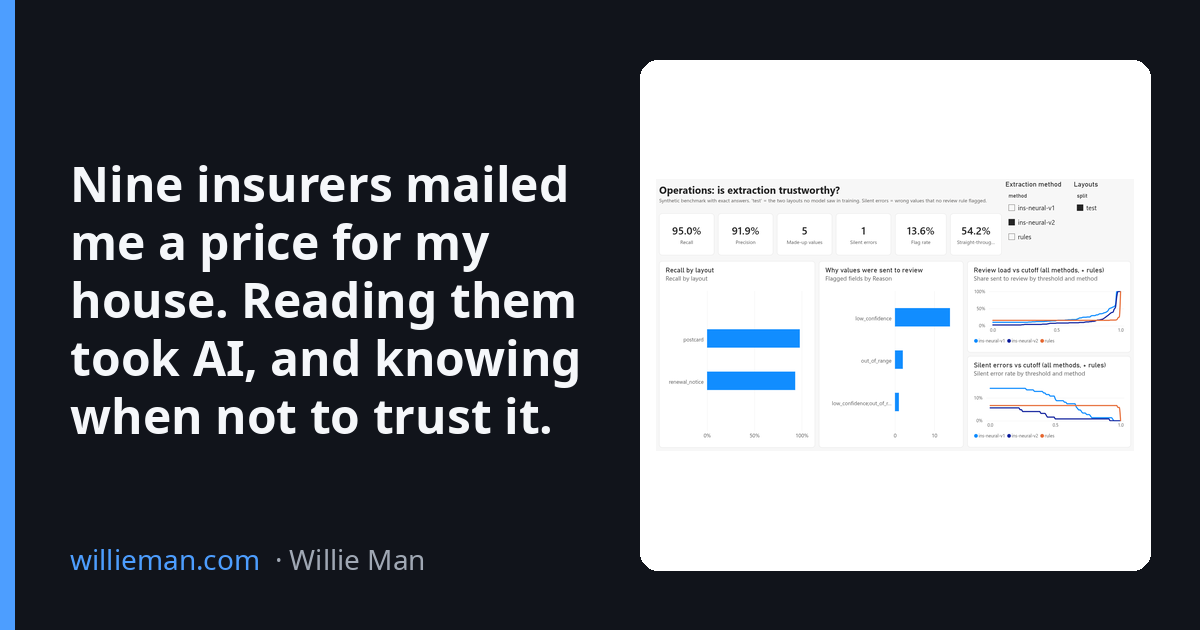
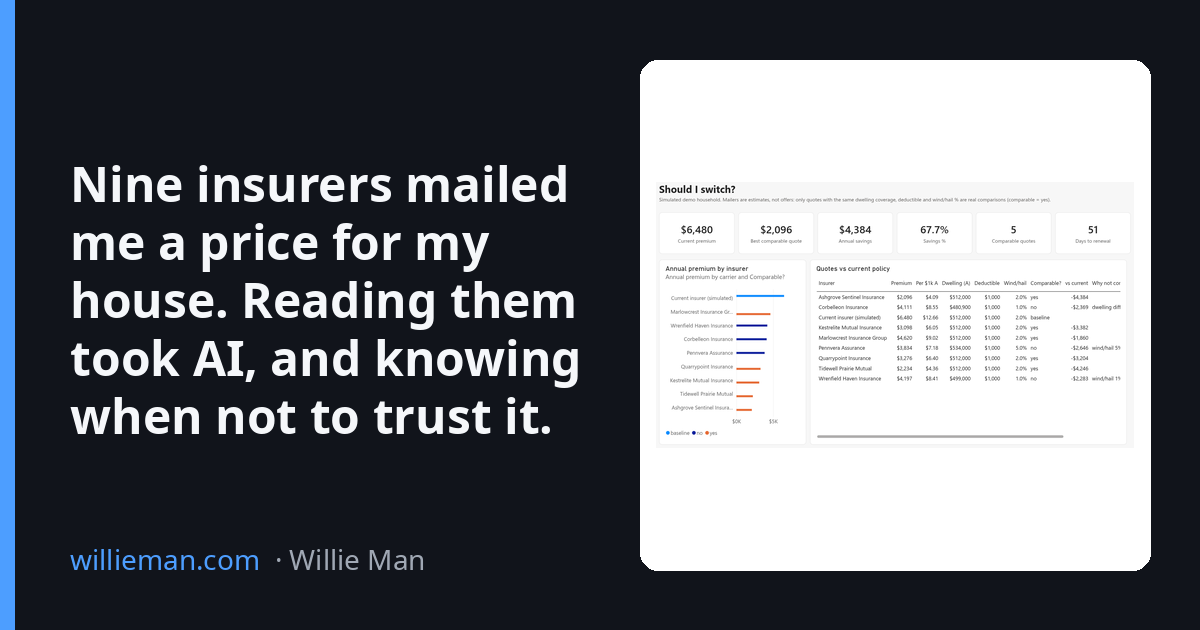
Insurance post: lead with Should I switch, real letter, diagram, glossary; escape $ in 3 posts

diff --git a/_posts/2026-11-11-nine-insurers-mailed-me-a-price.md b/_posts/2026-11-11-nine-insurers-mailed-me-a-price.md
@@ -7,16 +7,35 @@ tags: data-science
 categories: project
 giscus_comments: true
 related_posts: true
-thumbnail: assets/img/insurance-docai/2-operations.png
+thumbnail: assets/img/insurance-docai/1-should-i-switch.png
 og_image: https://willieman.com/assets/img/og/nine-insurers-mailed-me-a-price.png
+mermaid:
+  enabled: true
+  zoomable: true
 ---
 
-*My renewal said about $7,200 a year. Nine other insurers had mailed me "personalized quotes" between roughly
-$1,000 and $3,000. Picking the cheap one looked easy. It wasn't.*
+*My renewal said about \\$7,200 a year. Nine other insurers had mailed me "personalized quotes" between roughly
+\\$1,000 and \\$3,000. Picking the cheap one looked easy. It wasn't.*
 
 No two letters were alike. One says "Dwelling Protection", another "Dwelling Coverage". One prints a wind/hail
-deductible, eight don't. One quotes $440k of coverage, another $529k. Two had my square footage wrong. To compare
+deductible, eight don't. One quotes \\$440k of coverage, another \\$529k. Two had my square footage wrong. To compare
 them you have to read every letter, pull out the same dozen numbers, and notice which ones can't be compared at all.
+
+## The question: should I switch?
+
+This is the page I wanted at the end: every quote lined up against the current policy, and a plain answer to
+whether each one is a real comparison.
+
+{% include figure.liquid loading="eager" path="assets/img/insurance-docai/1-should-i-switch.png" class="img-fluid rounded z-depth-1" %}
+<div class="caption">The "Should I switch?" page of the Power BI report, shown with a simulated household (not my numbers).</div>
+
+A quote only counts as **comparable** when it has the same dwelling coverage, the same deductible and the same
+wind/hail percentage as the current policy. Anything else gets a reason in the last column ("dwelling differs",
+"wind/hail 5%"). Price per \\$1,000 of dwelling coverage puts different-sized quotes on one scale.
+
+For my real letters the answer was blunt: **none of the nine mailers was comparable**, because none of them stated a
+deductible. So the action wasn't "pick the cheapest letter". It was: request binding quotes on my exact coverage,
+deductible and wind/hail terms, and decide before the renewal date. The gap was large enough to be worth the calls.
 
 That's a small version of a common problem. Insurers, banks and government offices receive piles of documents
 in inconsistent formats, and they need structured data they can trust, with a person checking whatever the
@@ -44,6 +63,9 @@ fictional insurers in 6 different layouts, about half degraded to look like chea
 know every correct value exactly. Two layouts (a postcard and a renewal notice) were held back completely: no
 model or rule saw them before the test. That's the question that matters for any document system: how does it
 do on the format nobody planned for?
+
+{% include figure.liquid loading="eager" path="assets/img/insurance-docai/synthetic-letters.png" class="img-fluid rounded z-depth-1" %}
+<div class="caption">Two of the 96 synthetic letters: a clean declarations page from one fictional insurer, and a "scanned" renewal notice (tilted, blurred, grayscale) from another, in a layout held back for testing. Names and addresses are fake; every number is planted, so the right answer is known.</div>
 
 The number I care about most is the **silent error**: a value that's wrong *and* nobody was asked to check it.
 Those are the ones that end up in a report.
@@ -92,6 +114,33 @@ On my own letters, the model trained only on synthetic data read **about 97% of 
 silent errors**, at the cost of flagging more fields for review. (These numbers are provisional while I finish
 double-checking the hand labels.)
 
+Here's one of them, end to end: a quote mailer that arrived as a phone-quality scan, with my details blacked out.
+
+{% include figure.liquid path="assets/img/insurance-docai/real-mailer-redacted.png" class="img-fluid rounded z-depth-1" %}
+<div class="caption">A real quote mailer, redacted (names, addresses and the agent's contact details removed).</div>
+
+| On the letter | What the model read | Confidence | What happened |
+| :--- | :--- | :--- | :--- |
+| Dwelling \\$445,500 | \\$445,500 | 0.94 | accepted automatically |
+| Other structure \\$44,600 | \\$44,600 | 0.90 | accepted automatically |
+| Personal property \\$178,400 | \\$178,400 | 0.96 | accepted automatically |
+| Liability \\$300,000 | \\$300,000 | 0.94 | accepted automatically |
+| Guest medical \\$1,000 | \\$1,000 | 0.92 | accepted automatically |
+| Annual premium \\$2,187.45 | \\$2,187.45 | 0.94 | accepted automatically |
+| Additional living expense "Included" | "Included" (no amount) | 0.40 | **sent to a person** |
+
+Six of seven values were read exactly and went straight through. The seventh is the interesting one. The letter
+prints "Included" instead of an amount, and the two versions of the model handled it differently:
+
+- The **first model** filled in **\\$300,000**, the liability number from the line above, at a fairly confident
+  0.83. Confidence alone would have let that through. What caught it was a simple rule: living-expense coverage
+  is normally 5–50% of the dwelling amount, and \\$300,000 is 67%.
+- The **retrained model** read the word "Included", reported low confidence, and sent it to a person, who marks
+  it "not on the document".
+
+Either way, the wrong number never reached the comparison. And note that the mailer doesn't state a deductible
+at all, which is why no mailer could be compared like for like with my actual policy.
+
 ### A smarter router isn't automatically better
 
 On Databricks I trained a model to predict which extracted values are wrong. It ranked errors far better than the
@@ -99,6 +148,12 @@ raw confidence score (AUC 0.91 vs 0.53, where 0.5 is a coin flip), yet at the sa
 a calibrated threshold plus simple rules. With eight insurers, the simple policy wins. Negative results are results.
 
 ## The person in the loop
+
+The review step is a deliberately simple app, built in Microsoft Power Apps (part of Microsoft's Power
+Platform) and hosted there, reading and writing the review queue in Azure SQL. No web server to run: the
+reviewer opens it in a browser, sees one flagged value at a time, and clicks Accept, Save Correction or Not on
+document. The app itself is kept as code and deployed from the command line, so it's versioned like everything
+else.
 
 {% include figure.liquid loading="eager" path="assets/img/insurance-docai/review-app.png" class="img-fluid rounded z-depth-1" %}
 <div class="caption">The review app: the page, what the model read, its confidence, why it was flagged, and a hint. Synthetic letter from a fictional insurer.</div>
@@ -111,11 +166,7 @@ retrain.
 
 ## The dashboard
 
-One Power BI report for three audiences (the homeowner, operations, finance), built entirely as code. The
-household page uses a simulated household.
-
-{% include figure.liquid path="assets/img/insurance-docai/1-should-i-switch.png" class="img-fluid rounded z-depth-1" %}
-<div class="caption">Should I switch? Each quote against the current policy, and whether it's actually comparable (simulated household).</div>
+The same Power BI report has pages for operations and finance next to the homeowner's page above, all built as code.
 
 {% include figure.liquid path="assets/img/insurance-docai/2-operations.png" class="img-fluid rounded z-depth-1" %}
 <div class="caption">Operations: accuracy, silent errors, and how much review each cutoff costs.</div>
@@ -139,5 +190,50 @@ Mailers are estimates, not offers. Before comparing prices, match the dwelling c
 wind/hail percentage**, and ask how the roof is paid on a claim. Get binding quotes on the same terms, switch on the
 renewal date, and repeat every year.
 
+## How it fits together
+
+What was actually built (one Azure resource group, deployed from Bicep templates, signed in with Microsoft
+Entra ID, no passwords or keys):
+
+```mermaid
+flowchart TD
+  A["Real letters (scans, PDFs)<br/>+ synthetic letters (AI Foundry wording)"] --> B[("Azure Blob Storage<br/>stored by content hash")]
+  B --> C["Azure AI Document Intelligence<br/>layout + custom model: values + confidence"]
+  C --> D["Python: map to one schema,<br/>range and ratio checks"]
+  D --> R["Azure AI Language<br/>remove personal info"]
+  D -- "confident and valid" --> S[("Azure SQL<br/>clean values + full history")]
+  D -- "unsure or suspicious" --> Q["Power Apps review app<br/>accept · correct · not on document"]
+  Q --> S
+  S --> P["Power BI dashboard<br/>homeowner · operations · finance"]
+  D --> X["Databricks lakehouse<br/>bronze → silver → gold, MLflow"]
+  C -. logs .-> L["Log Analytics + App Insights"]
+  Q -. usage events .-> L
+```
+
+For a production version (private networking, no public endpoints, separate dev/test/prod), the repo has a
+reference architecture: [docs/ARCHITECTURE.md](https://github.com/godot107/insurance-docai/blob/main/docs/ARCHITECTURE.md).
+
 *Stack: Azure AI Document Intelligence (layout + custom neural), Azure AI Language, Power Apps, Azure SQL,
 Power BI, Databricks (Unity Catalog, MLflow), Azure AI Foundry, Bicep, Python, GitHub Actions.*
+
+## Glossary
+
+- **Layout**: how a letter is arranged on the page (a table, a postcard, a two-column notice). The same facts
+  can sit in very different places.
+- **Custom (neural) model**: a Document Intelligence model trained on my own labeled examples, instead of the
+  general-purpose one that only reads text and tables.
+- **Confidence score**: the model's own estimate, from 0 to 1, of how sure it is about a value.
+- **Calibrated**: a confidence score that means what it says: of values scored 0.9, about 90% are right.
+- **Silent error**: a wrong value that no check flagged, so no person ever looked at it.
+- **Precision**: of the values the model returned, the share that were right. Low precision means it makes
+  things up.
+- **Cutoff (threshold)**: the confidence below which a value goes to a person.
+- **Augmentation**: making extra, deliberately varied training examples (harder layouts, worse scans) so the
+  model learns the general pattern rather than one look.
+- **AUC**: how well a score ranks wrong values above right ones; 1.0 is perfect, 0.5 is a coin flip.
+- **Drift**: when the documents (or the model's behavior on them) change over time, so accuracy measured
+  earlier no longer holds. Here, a jump in "not on the document" decisions is the early warning.
+- **PII**: personally identifiable information: names, addresses, phone numbers, policy and loan numbers.
+- **Bronze / silver / gold**: raw data as received → cleaned and checked → ready for reports.
+- **Infrastructure as code (Bicep)**: the cloud resources are described in files and created by a script, so
+  they can be rebuilt or torn down exactly.

diff --git a/_posts/2026-09-17-auditable-fpa-forecast.md b/_posts/2026-09-17-auditable-fpa-forecast.md
@@ -21,7 +21,7 @@ on every execution, and let them stop the pipeline.**
 
 That sounds like process hygiene. In practice it was the most productive thing in the project.
 The controls caught five defects I would not have found by reading the code, and one of them
-was a $1.83 billion error sitting in a number that looked completely reasonable.
+was a \\$1.83 billion error sitting in a number that looked completely reasonable.
 
 This is a write-up of those failures, because they're more interesting than the parts that
 worked.
@@ -61,7 +61,7 @@ That last decision is the one everything else came from.
 
 ---
 
-## Failure 1: the $1.83B quarter that looked fine
+## Failure 1: the \\$1.83B quarter that looked fine
 
 Companies don't file a Q4 10-Q. They roll the fourth quarter into the 10-K as a full year, so
 if you pull "quarterly" facts from XBRL you get three quarters a year and a hole every
@@ -78,12 +78,12 @@ filled.loc[q4_end, account] = annual_row[account] - filled.loc[in_year, account]
 ```
 
 Then I added pre-tax income to the chart of accounts, and a control I'd just written —
-`pretax − tax = net income` — went red by **$1,831,472,000**.
+`pretax − tax = net income` — went red by **\\$1,831,472,000**.
 
 Netflix only started tagging pre-tax income as a _quarterly_ fact in 2020-Q3. For 2020, Q1 and
 Q2 were missing. And `Series.sum()` skips `NaN` by default.
 
-So the code computed `FY − Q3`. Two missing quarters' worth of a $3.2B year, silently folded
+So the code computed `FY − Q3`. Two missing quarters' worth of a \\$3.2B year, silently folded
 into a single derived quarter, in a cell that looked exactly like every other cell.
 
 The fix is one keyword:
@@ -149,7 +149,7 @@ To post a balance sheet into a ledger you need a **partition** of the filed tota
 overlaps. Every line exactly once. I mapped Netflix's tags to lines, including the ASC 842
 lease tags, which look exactly like balance-sheet lines.
 
-The non-current liability residual came out at **−$571 million**.
+The non-current liability residual came out at **−\\$571 million**.
 
 A negative liability is nonsense, which is the only reason it was visible. Everything else in
 the statement looked plausible.
@@ -162,8 +162,8 @@ against the ASC 842 adoption in 2019-Q1, the quarter both tags first appear:
 
 | Caption                      | Step at adoption | Amount recognised             |
 | ---------------------------- | ---------------- | ----------------------------- |
-| `OtherAssetsNoncurrent`      | **+$816M**       | right-of-use assets **$812M** |
-| `OtherLiabilitiesNoncurrent` | **+$663M**       | lease liability **$765M**     |
+| `OtherAssetsNoncurrent`      | **+\\$816M**       | right-of-use assets **\\$812M** |
+| `OtherLiabilitiesNoncurrent` | **+\\$663M**       | lease liability **\\$765M**     |
 
 A caption that jumps by the amount of the thing being adopted contains it. The lease tags are
 now carried as disclosure columns and excluded from the posting partition.
@@ -181,7 +181,7 @@ if worst < 0:
 
 ## The part that made the ERP worth it
 
-With the partition fixed, `Assets = Liabilities + Equity` holds to **$0.00** across all 26
+With the partition fixed, `Assets = Liabilities + Equity` holds to **\\$0.00** across all 26
 quarters. That's not a trivia fact. It means the balance sheet can be posted to the ledger as a
 **self-balancing journal entry with no clearing account** — the debits and credits _are_ the
 filed statement.
@@ -193,10 +193,10 @@ The balances post as _movements_, not restated positions, which makes the round 
 meaningfully harder: every quarter's balance is a cumulative sum of every entry before it, so
 one bad entry in 2021 corrupts all twenty quarters after it. Reading it back out through SQL:
 
-**$0.00 across all 17 lines and all 26 quarter ends.**
+**\\$0.00 across all 17 lines and all 26 quarter ends.**
 
 The P&L round trip — EDGAR → disaggregation → ORM → posted double-entry → analytic
-distribution → `GROUP BY` → back to the filed 10-Q — ties to **$0.02 on $10.4B**. Those two
+distribution → `GROUP BY` → back to the filed 10-Q — ties to **\\$0.02 on \\$10.4B**. Those two
 cents are cent-rounding at the ERP boundary, which is correct behaviour for a ledger that
 stores cents.
 
@@ -204,7 +204,7 @@ One thing I got right by accident and only understood afterwards: **the cash-flo
 not posted at all.** No general ledger journalizes a cash-flow statement — it's derived from
 the movement in balance-sheet accounts. That's why a consolidation tool computes it and a
 transactional system doesn't. It's built in Python, reconciled against the filed roll-forward
-(**$0.00** across 25 quarters), and reported.
+(**\\$0.00** across 25 quarters), and reported.
 
 ---
 
@@ -215,11 +215,11 @@ exposes the consolidated value of a tag. Regional data lives in SEC's Financial 
 Sets: bulk quarterly ZIPs, ~85 MB each, with a `segments` column you stream and filter.
 
 I pulled four archives, summed the four regions, compared to filed total revenue, and the
-control failed by **$182.3 million**.
+control failed by **\\$182.3 million**.
 
 First cause was a straightforward trap: Netflix tags _two_ overlapping geographic breakdowns.
 The four operating regions carry `ProductOrService=Streaming`. There's also a standalone
-`Geographical=US` disclosure worth $18.5B in FY2025. Sum everything on the geographic axis and
+`Geographical=US` disclosure worth \\$18.5B in FY2025. Sum everything on the geographic axis and
 you inflate revenue by roughly 40% — glaringly obvious in a total, completely invisible in a
 per-region chart.
 
@@ -233,7 +233,7 @@ That's the DVD-by-mail business, which Netflix shut down in September 2023.
 
 My control had asserted the wrong identity. The regions sum to **streaming** revenue, not
 consolidated revenue, and the gap is a real segment. The control now ties against the filed
-streaming line — **$0.00** across the three years it's tagged — and separately requires the
+streaming line — **\\$0.00** across the three years it's tagged — and separately requires the
 legacy residual to be non-negative and to stay at zero.
 
 I like this one because the control was wrong and the _data_ corrected it.

diff --git a/_posts/2026-10-17-your-models-score-is-an-estimate.md b/_posts/2026-10-17-your-models-score-is-an-estimate.md
@@ -60,7 +60,7 @@ all of them on all metrics:
 <div class="caption">Lesson 2: each metric crowns its own model; interval coverage by noise level.</div>
 
 Each metric crowned the model built for it (left). Absolute error rewards predicting the median. Percentage error
-(MAPE) rewards predicting *below* the median: it treats a 10% miss on a $5 item like a 10% miss on a $5,000 one,
+(MAPE) rewards predicting *below* the median: it treats a 10% miss on a \\$5 item like a 10% miss on a \\$5,000 one,
 and pays you to forecast low. Only the squared-error model was unbiased on average; the median-type models,
 including the common habit of fitting log(price) and converting back, under-predicted by about 11%. Fine for a
 typical house; a problem if the forecasts are added up into an inventory order or a budget.
